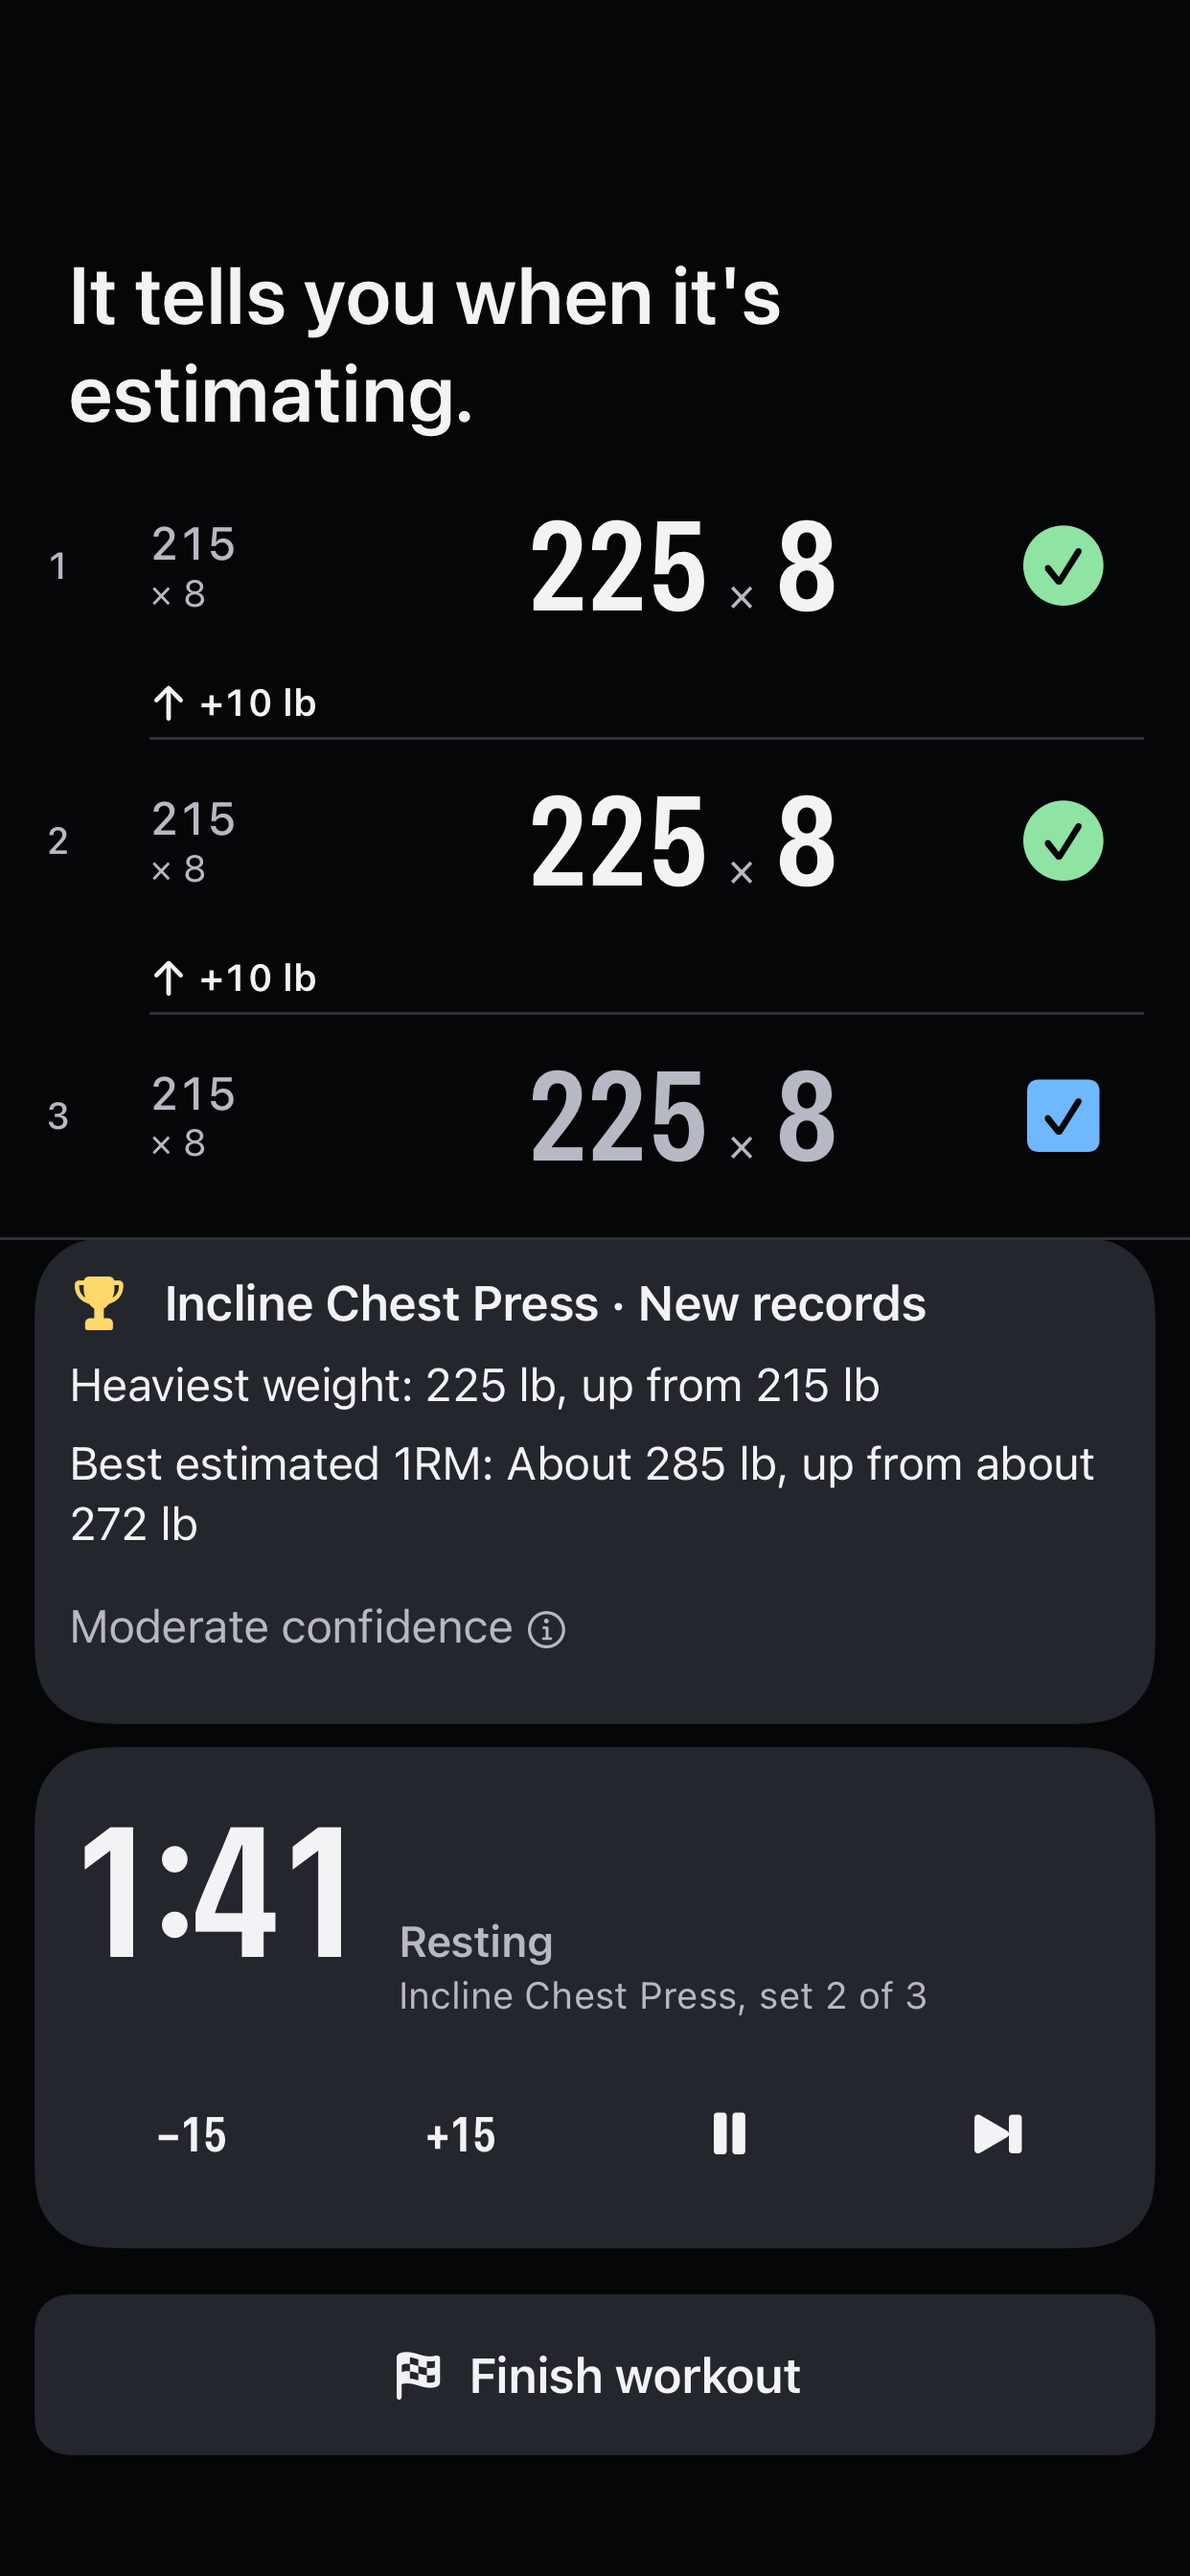
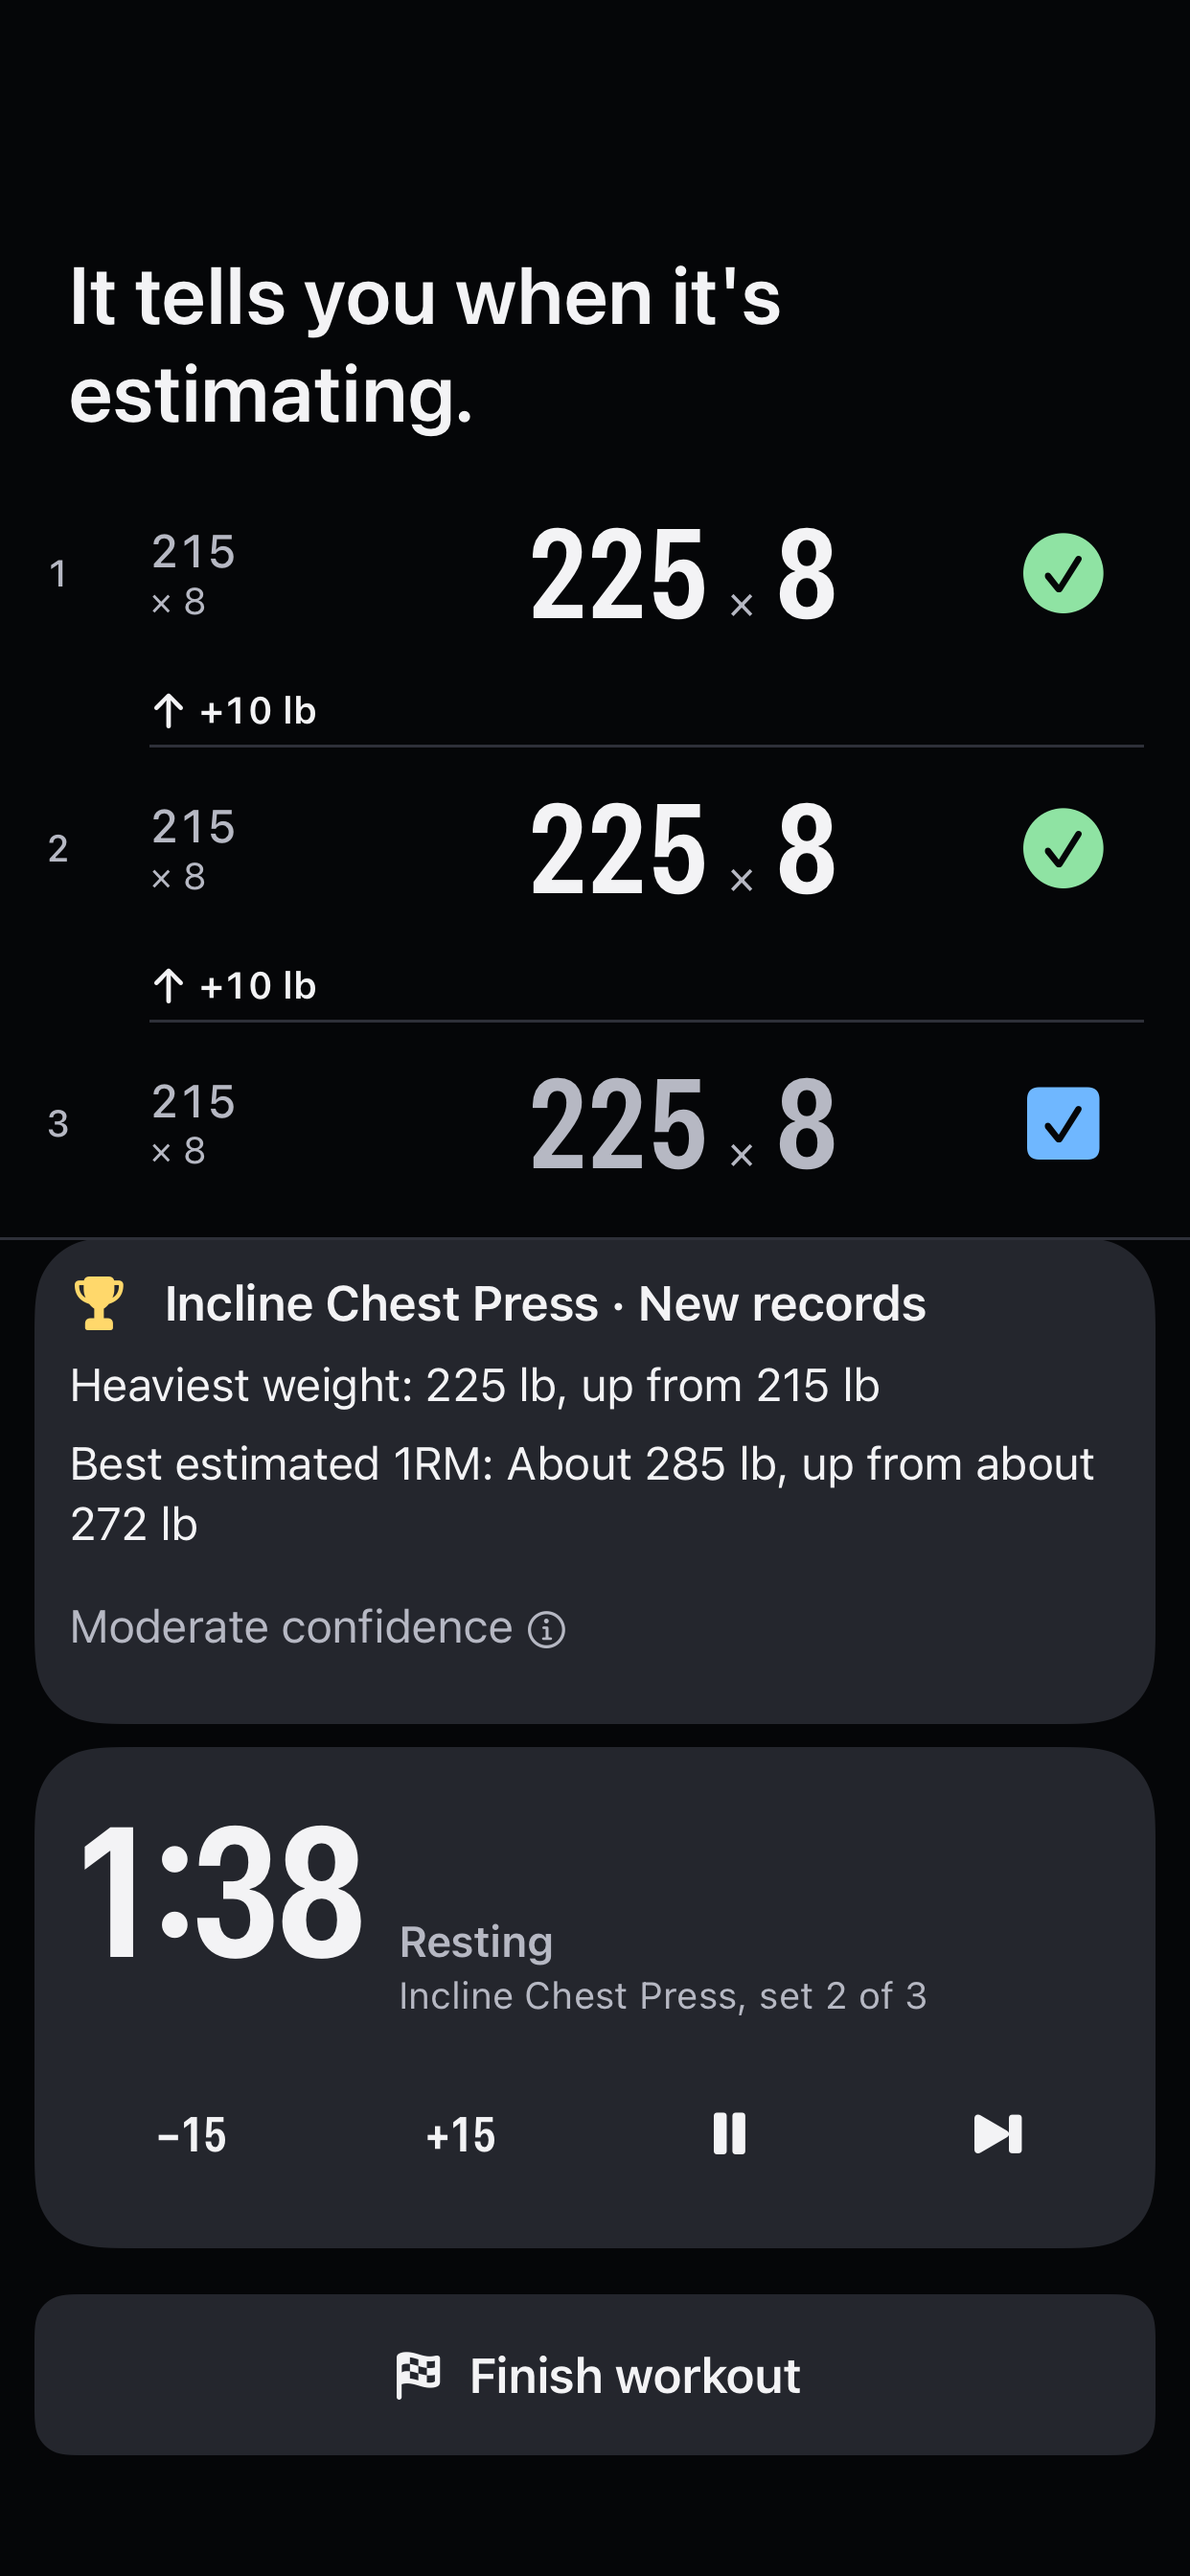
Regenerate the gallery with shot 1 cropped on clean boundaries

diff --git a/docs/release/screenshots/README.md b/docs/release/screenshots/README.md
@@ -29,8 +29,9 @@ the screen, at 3x. The screen itself is the live view at the width of the target
   typed. The rest timer is running. There is no "From another machine" note: this is a
   same-machine state, which is the only state in which the app can announce a record. The
   two-record notice and the rest bar cover most of the list at phone height, so the card hosts
-  the live screen taller than itself and shows its lower part: the title and gym line are
-  cropped away, and the three rows, the notice and the rest bar stay on screen.
+  the live screen taller than itself and shows its lower part: the title, gym line and machine
+  line are cropped away, the card's top edge falls on the first set row, and the three rows, the
+  notice and the rest bar stay on screen with no line of text cut through.
 - **Volume.** 14 working sets in the last 7 days, with Chest 10, Front delts 7.5 and
   Triceps 6 visible. The screen's own disclosure says there is no target line because no
   weekly set target is established, and "Not evaluated" is explained. "Worked from" and
